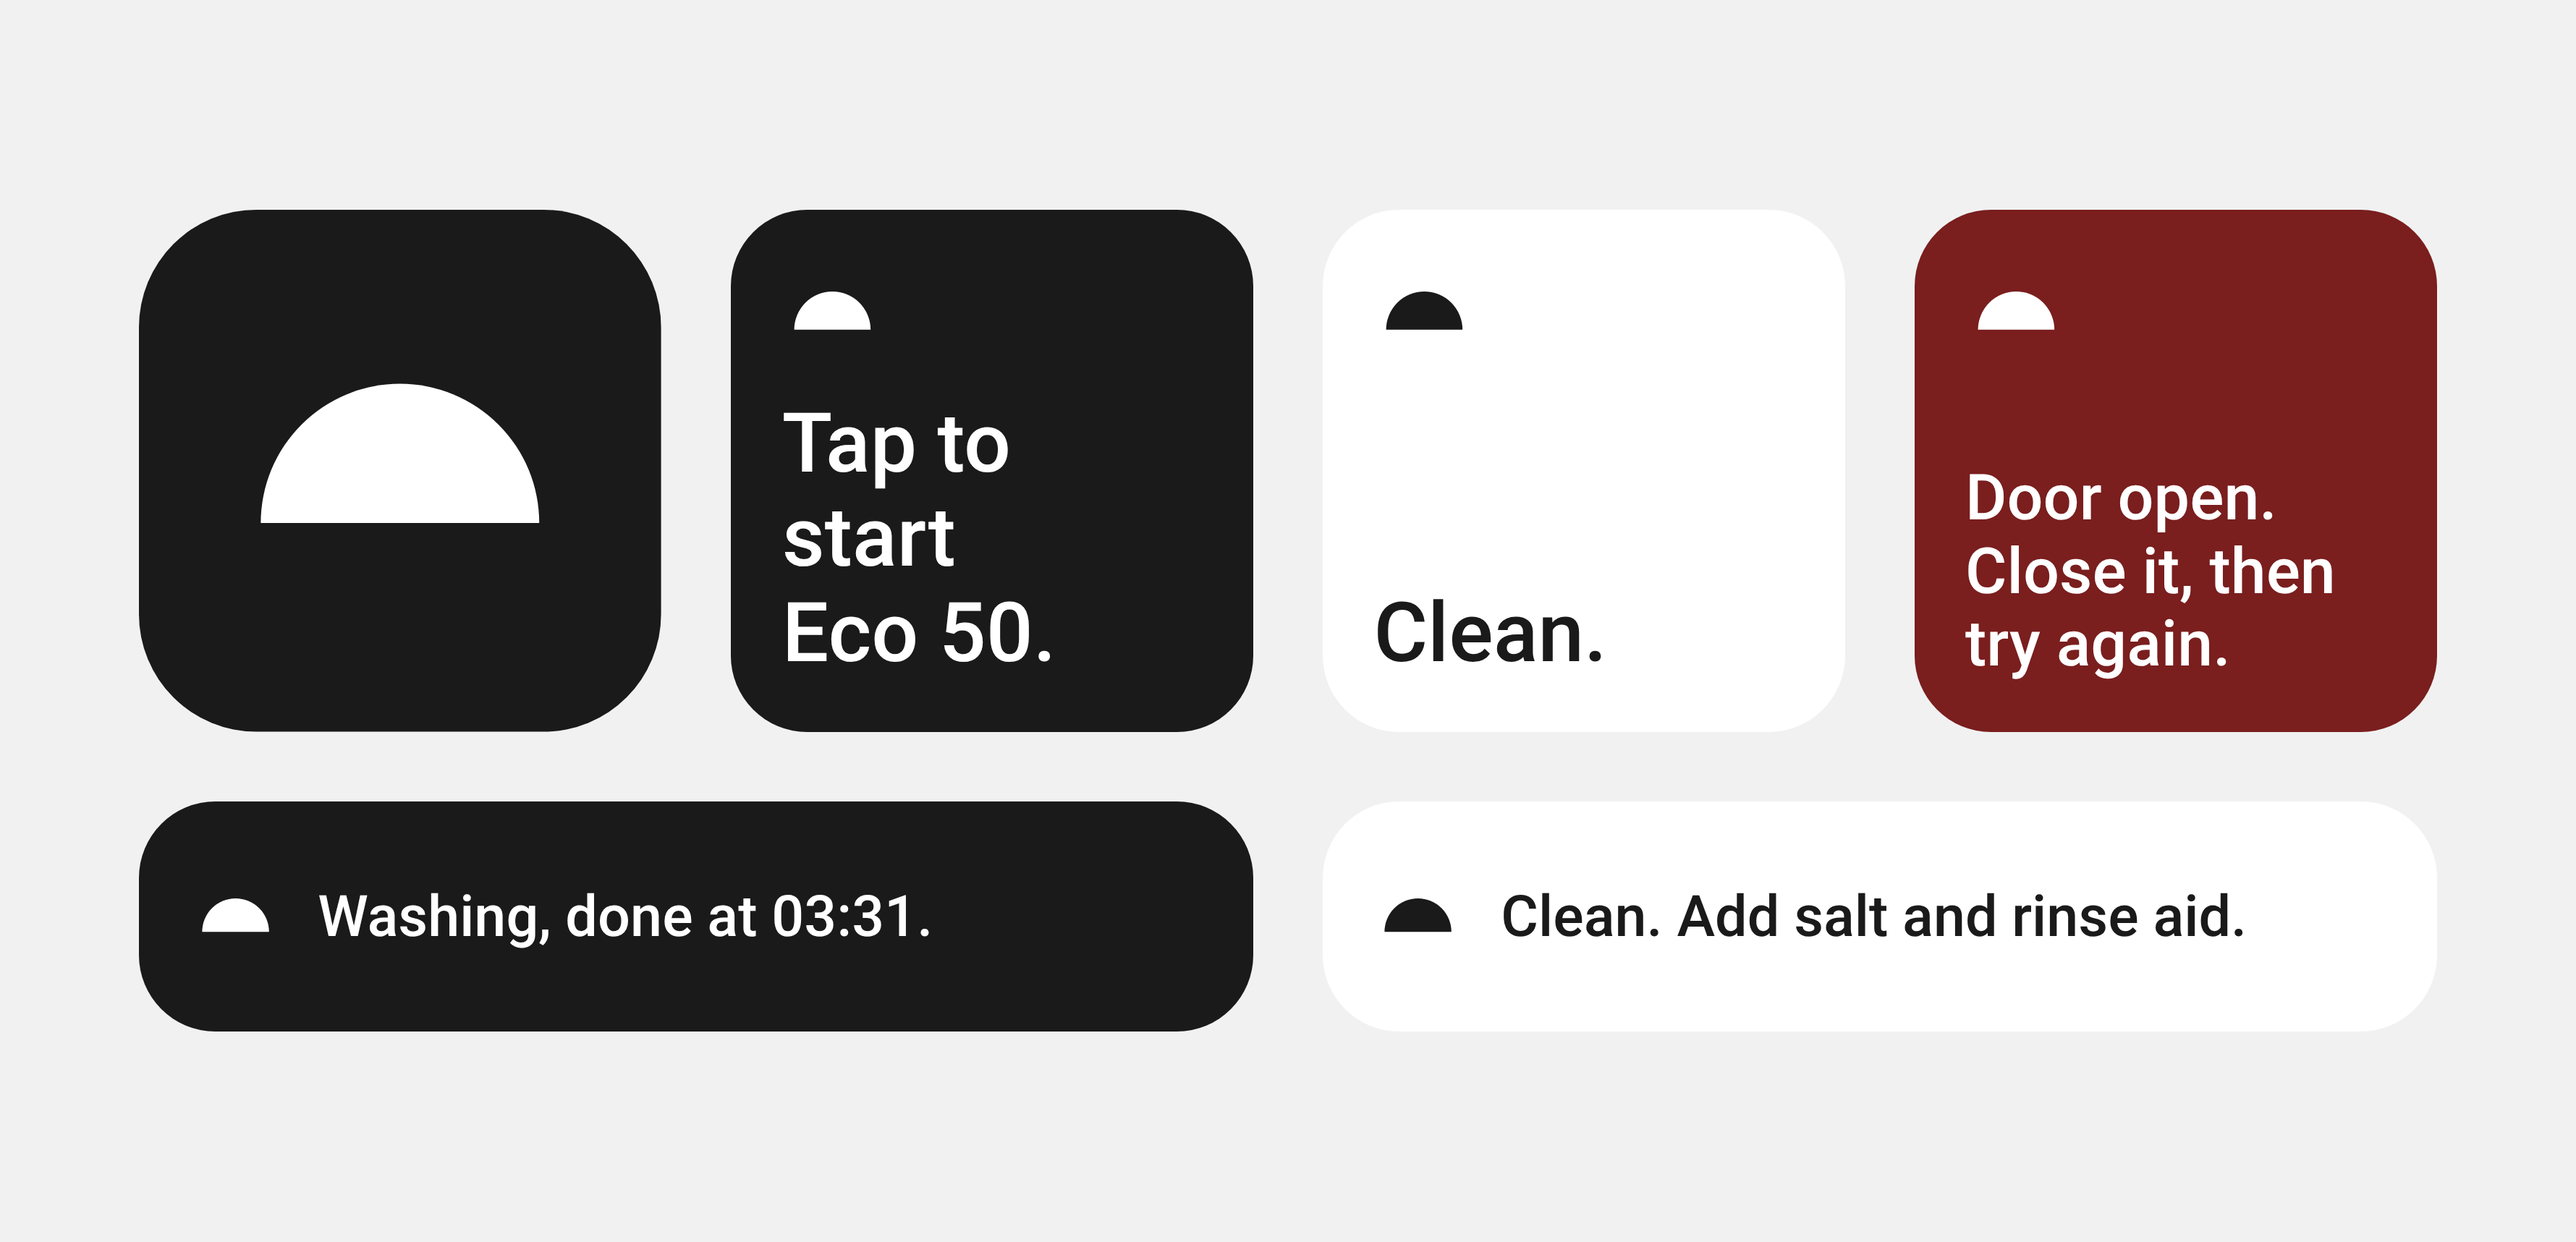
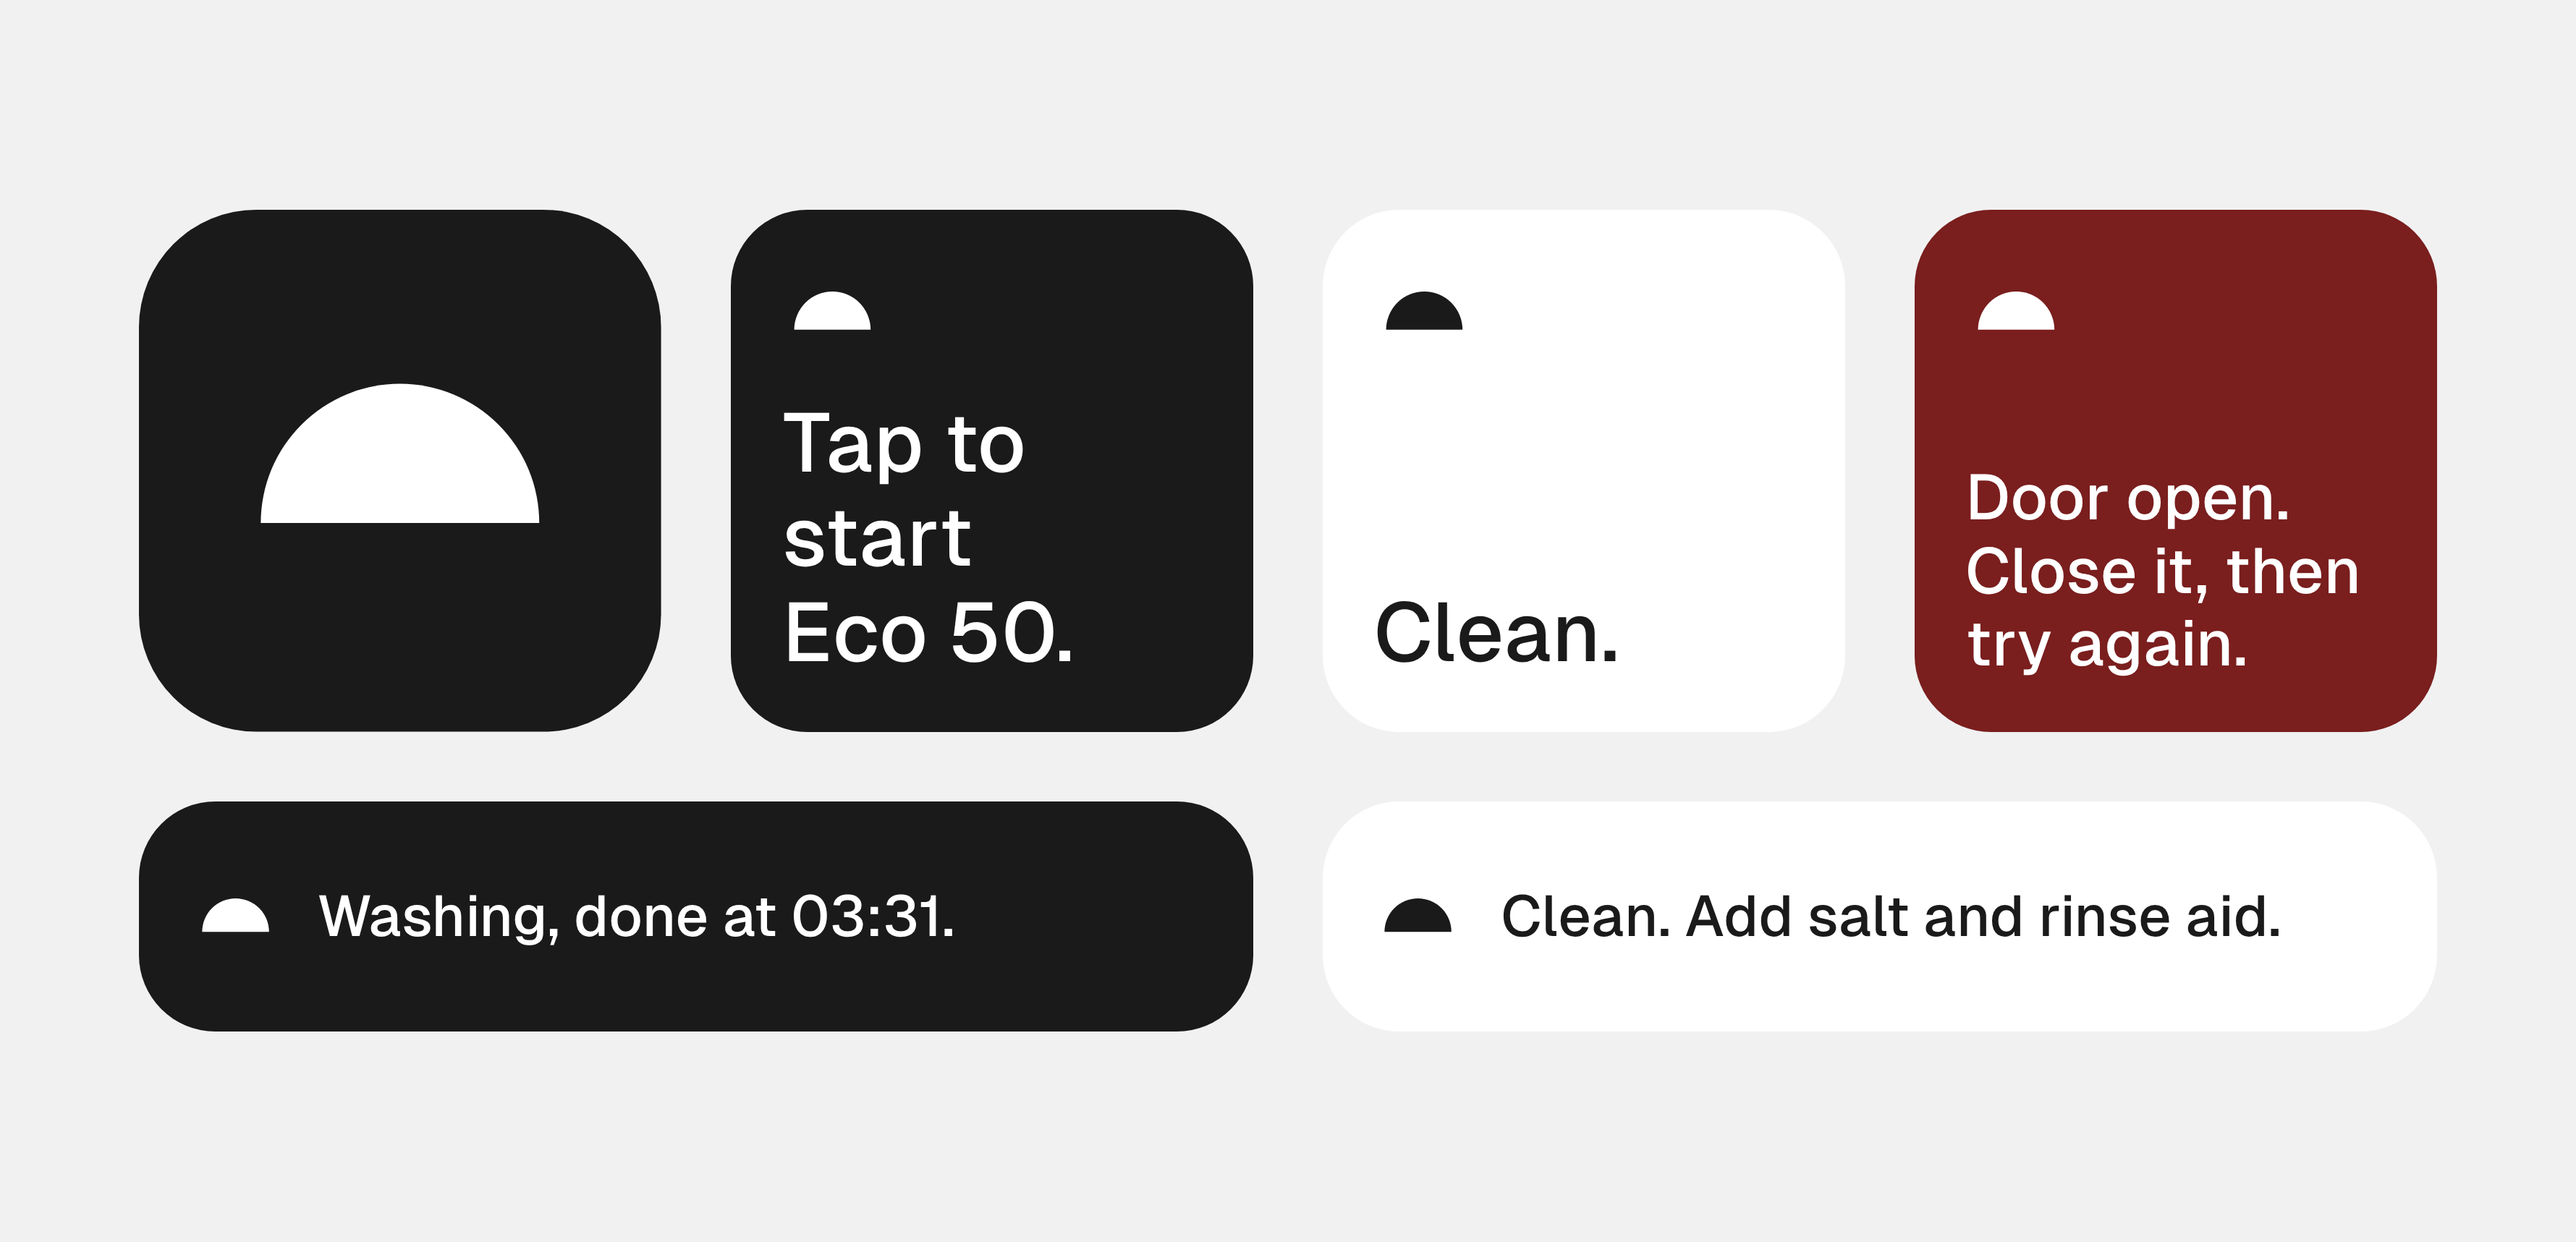
Widgets portfolio image in Geist
Claude-Session: https://claude.ai/code/session_01P1qx1NiMs3b8zkePfQ8FtX

diff --git a/tools/portfolio/widgets.py b/tools/portfolio/widgets.py
@@ -1,10 +1,10 @@
 """Rinse widgets, scaled up, with the app icon, on the 3560 x 1717 portfolio canvas.
-Run: python3 tools/portfolio/widgets.py <path to roboto-latin-500-normal.woff2>
-Writes design/portfolio/rinse_widgets.png. Widgets use Roboto Medium, as on the phone (Android widgets use the system font)."""
+Run: python3 tools/portfolio/widgets.py
+Writes design/portfolio/rinse_widgets.png. Widgets use Geist Medium, as on the phone."""
 import os, sys, asyncio
 from playwright.async_api import async_playwright
 D = os.path.abspath(os.path.join(os.path.dirname(__file__), "../../design/portfolio"))
-ROBOTO = sys.argv[1]
+GEIST = os.path.abspath(os.path.join(os.path.dirname(__file__), "../../app/src/main/res/font/geist_medium.ttf"))
 INK, PAPER, BRICK, FOG = "#1A1A1A", "#FFFFFF", "#7A1E1E", "#F1F1F1"
 K = 2.2  # widget scale against its real dp size
 def plate(c, s): return f'<svg width="{s}" height="{s}" viewBox="0 0 24 24"><path fill="{c}" d="M3,16 A9,9 0 0 1 21,16 Z"/></svg>'
@@ -18,7 +18,7 @@ CELL, GAP = 164 * K, 48
 WIDE = (4 * CELL + 3 * GAP - GAP) / 2
 icon = (f'<svg width="{CELL}" height="{CELL}" viewBox="0 0 120 120"><rect width="120" height="120" rx="27" fill="{INK}"/>'
         f'<path d="M28 72 A32 32 0 0 1 92 72 Z" fill="{PAPER}"/></svg>')
-html = f'''<html><head><style>@font-face{{font-family:R;src:url(file://{ROBOTO});font-weight:500}}
+html = f'''<html><head><style>@font-face{{font-family:R;src:url(file://{GEIST});font-weight:500}}
 *{{margin:0;box-sizing:border-box}}body{{width:1780px;height:858px;background:{FOG};display:flex;align-items:center;justify-content:center;font-family:R;font-weight:500;-webkit-font-smoothing:antialiased}}
 .g{{display:flex;flex-direction:column;gap:{GAP}px}}.r{{display:flex;gap:{GAP}px}}.w{{display:flex;border-radius:{24*K}px;text-wrap:balance}}</style></head><body>
 <div class="g"><div class="r">{icon}{tall(INK, PAPER, "Tap to start Eco 50.")}{tall(PAPER, INK, "Clean.")}{tall(BRICK, PAPER, "Door open. Close it, then try again.", 20)}</div>

diff --git a/design/portfolio/README.md b/design/portfolio/README.md
@@ -24,7 +24,7 @@ Lights out, dishwasher on.
 - Widget: 09 one row, 10 tall
 
 ## Widgets
-- rinse_widgets.png: widget states plus app icon, scaled up, on Fog. Run python3 tools/portfolio/widgets.py <roboto woff2>. Widgets use Roboto, as on the phone.
+- rinse_widgets.png: widget states plus app icon, scaled up, on Fog. Run python3 tools/portfolio/widgets.py. Geist, as on the phone.
 
 ## In the phone (same workflow as Relay and Sniff)
 Run python3 tools/portfolio/phones.py. Uses Tony's Pixel 8 frame (pixel8-frame@2x.png, from Figma) on the 3560 x 1717 canvas.
